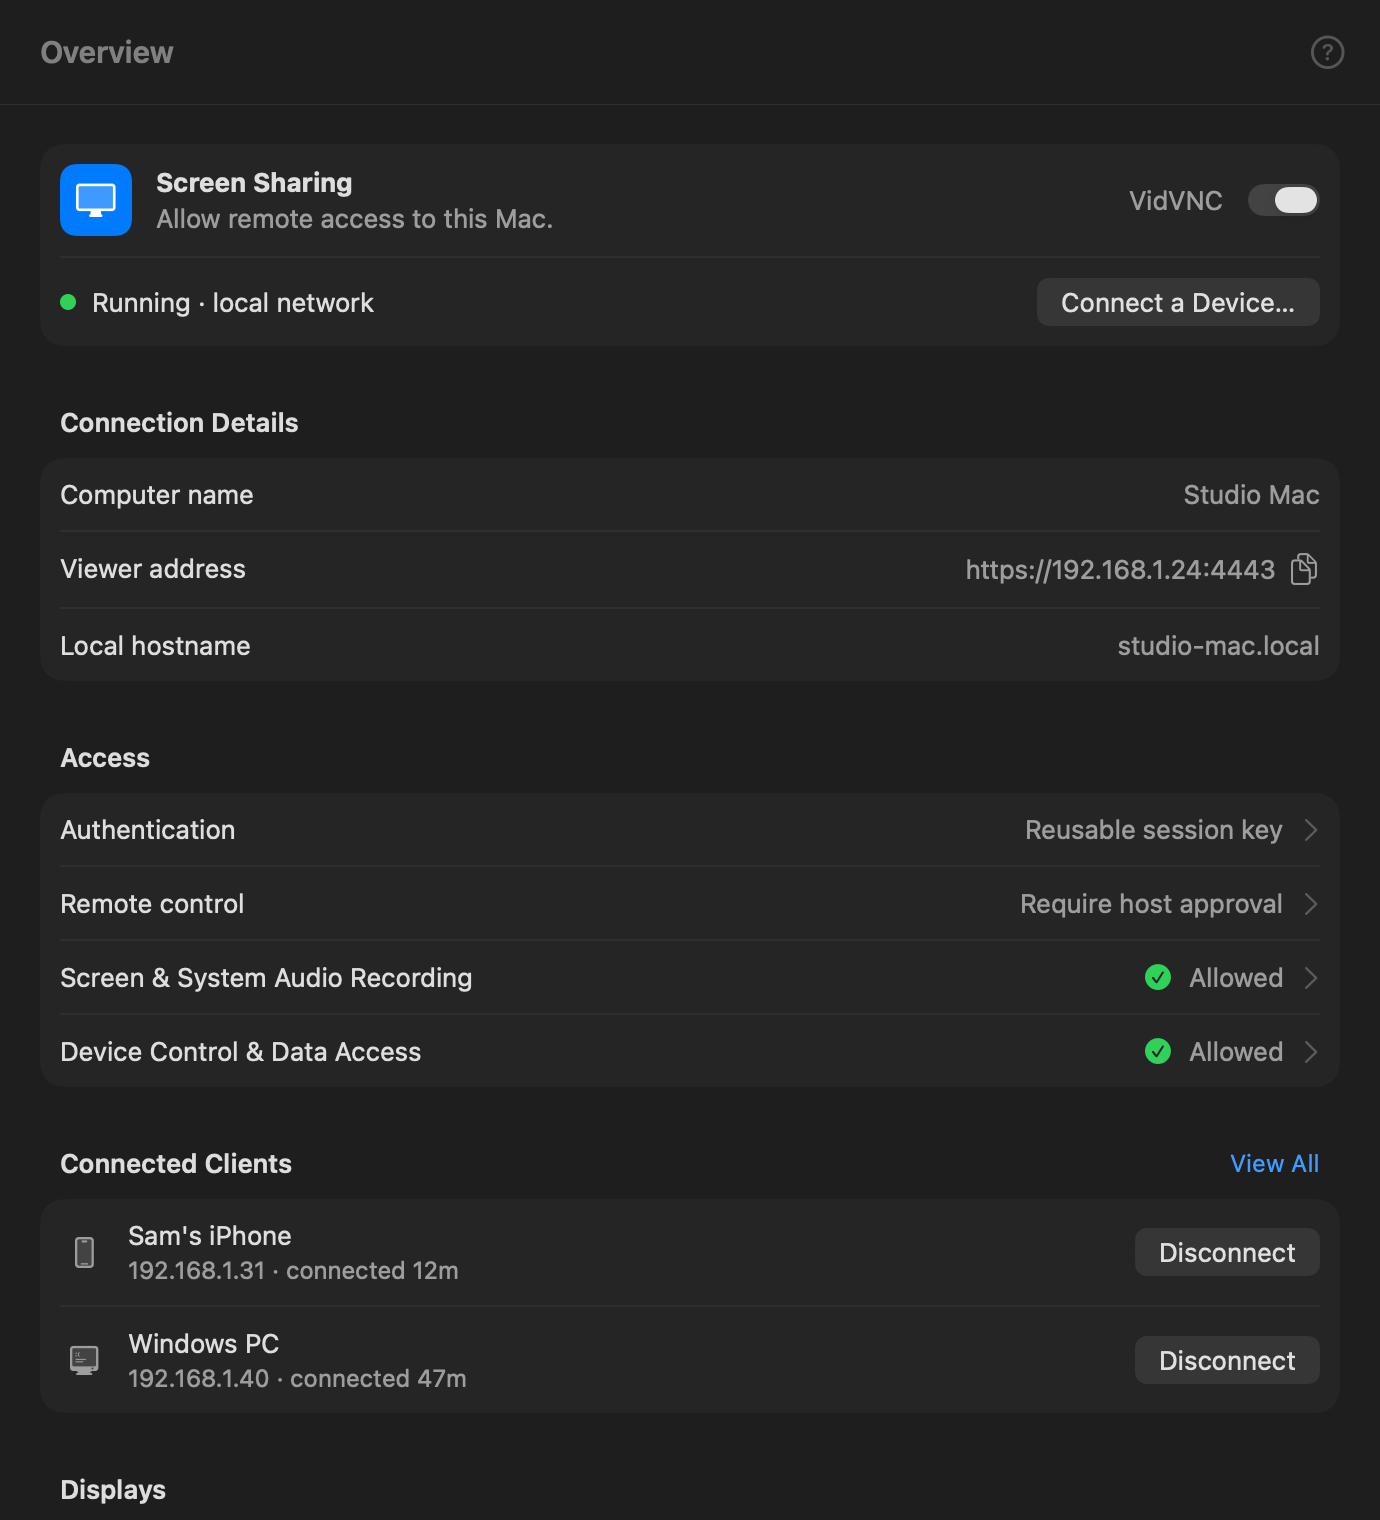
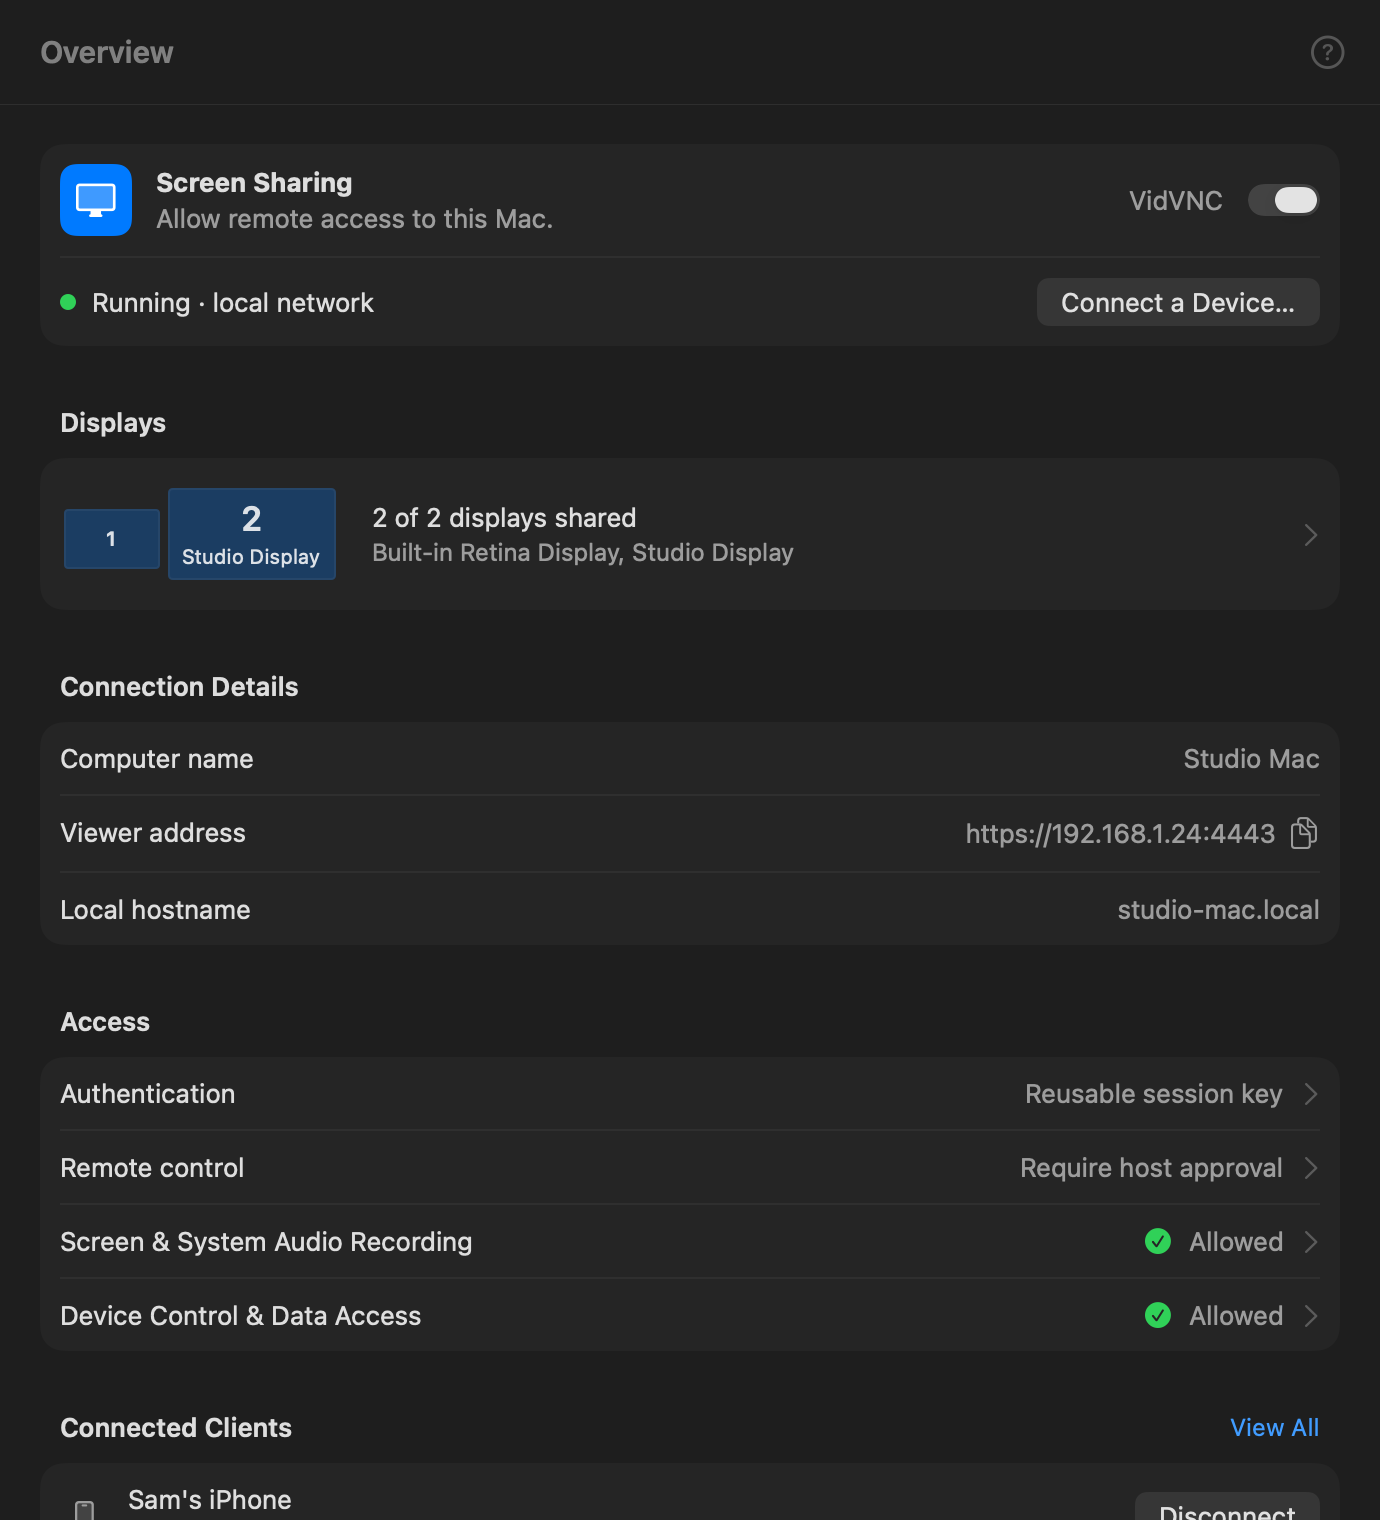
macOS host: put Displays before Connection Details and second in the sidebar
At the owner's request: the Overview's displays strip now comes right after the sharing
group, and the Displays section follows Overview in the sidebar (Command-2).

diff --git a/apps/macos-host/VidVNC/Views/OverviewView.swift b/apps/macos-host/VidVNC/Views/OverviewView.swift
@@ -57,6 +57,27 @@ struct OverviewView: View {
         }
       }
 
+      Section("Displays") {
+        Button {
+          presentation.section = .displays
+        } label: {
+          HStack(spacing: 16) {
+            DisplayArrangement(displays: model.displays, selection: nil)
+              .frame(width: 140, height: 56)
+            VStack(alignment: .leading, spacing: 2) {
+              Text("\(model.displays.filter(\.isShared).count) of \(model.displays.count) displays shared")
+              Text(model.displays.map(\.name).joined(separator: ", "))
+                .font(.callout)
+                .foregroundStyle(.secondary)
+            }
+            Spacer()
+            Image(systemName: "chevron.right").foregroundStyle(.tertiary)
+          }
+          .contentShape(.rect)
+        }
+        .buttonStyle(.plain)
+      }
+
       Section("Connection Details") {
         LabeledContent("Computer name", value: model.computerName)
         LabeledContent("Viewer address") {
@@ -102,26 +123,6 @@ struct OverviewView: View {
         }
       }
 
-      Section("Displays") {
-        Button {
-          presentation.section = .displays
-        } label: {
-          HStack(spacing: 16) {
-            DisplayArrangement(displays: model.displays, selection: nil)
-              .frame(width: 140, height: 56)
-            VStack(alignment: .leading, spacing: 2) {
-              Text("\(model.displays.filter(\.isShared).count) of \(model.displays.count) displays shared")
-              Text(model.displays.map(\.name).joined(separator: ", "))
-                .font(.callout)
-                .foregroundStyle(.secondary)
-            }
-            Spacer()
-            Image(systemName: "chevron.right").foregroundStyle(.tertiary)
-          }
-          .contentShape(.rect)
-        }
-        .buttonStyle(.plain)
-      }
     }
     .formStyle(.grouped)
   }

diff --git a/apps/macos-host/VidVNC/Support/Presentation.swift b/apps/macos-host/VidVNC/Support/Presentation.swift
@@ -1,7 +1,7 @@
 import SwiftUI
 
 enum SidebarSection: String, CaseIterable, Identifiable, Hashable {
-  case overview, connections, access, network, activity, displays, permissions
+  case overview, displays, connections, access, network, activity, permissions
 
   var id: Self { self }
 

diff --git a/docs/design/macos-host-previz/README.md b/docs/design/macos-host-previz/README.md
@@ -21,9 +21,9 @@ app to see the sidebar, its sharing footer, the menu bar item, sheets and Settin
 | Section     | Light                                          | Dark                                         |
 | ----------- | ---------------------------------------------- | -------------------------------------------- |
 | Overview    | [overview-light.png](overview-light.png)       | [overview-dark.png](overview-dark.png)       |
+| Displays    | [displays-light.png](displays-light.png)       | [displays-dark.png](displays-dark.png)       |
 | Connections | [connections-light.png](connections-light.png) | [connections-dark.png](connections-dark.png) |
 | Access      | [access-light.png](access-light.png)           | [access-dark.png](access-dark.png)           |
 | Network     | [network-light.png](network-light.png)         | [network-dark.png](network-dark.png)         |
 | Activity    | [activity-light.png](activity-light.png)       | [activity-dark.png](activity-dark.png)       |
-| Displays    | [displays-light.png](displays-light.png)       | [displays-dark.png](displays-dark.png)       |
 | Permissions | [permissions-light.png](permissions-light.png) | [permissions-dark.png](permissions-dark.png) |

diff --git a/docs/superpowers/specs/2026-10-11-macos-host-design.md b/docs/superpowers/specs/2026-10-11-macos-host-design.md
@@ -9,8 +9,9 @@ in the plan's task 5.4; the plan itself is not edited.
 
 ## Decisions
 
-- **Sections, not Windows pages.** The window has a sidebar with Overview, Connections,
-  Access, Network, Activity, Displays and Permissions. Streaming profiles, allowed options,
+- **Sections, not Windows pages.** The window has a sidebar with Overview, Displays,
+  Connections, Access, Network, Activity and Permissions (Displays moved up at the owner's
+  request; Overview shows its displays strip above Connection Details too). Streaming profiles, allowed options,
   the encoder and codecs go to the Settings window (Streaming tab), with General (open at
   login, keep sharing when the window closes, logs) and About (versions). Parity with Windows
   is kept function by function, not page by page.

diff --git a/CHANGELOG.md b/CHANGELOG.md
@@ -9,8 +9,8 @@ may include breaking changes.
 
 ### Added
 
-- The coming macOS version has its VidVNC app: a window with Overview, Connections, Access,
-  Network, Activity, Displays and Permissions, a Settings window for streaming profiles,
+- The coming macOS version has its VidVNC app: a window with Overview, Displays, Connections,
+  Access, Network, Activity and Permissions, a Settings window for streaming profiles,
   codecs and the encoder, and a menu bar item that keeps sharing running when the window is
   closed (unless **Keep sharing when the window closes** is off). It asks for nothing at
   launch: the first time you turn sharing on it explains, then macOS asks for Screen & System
